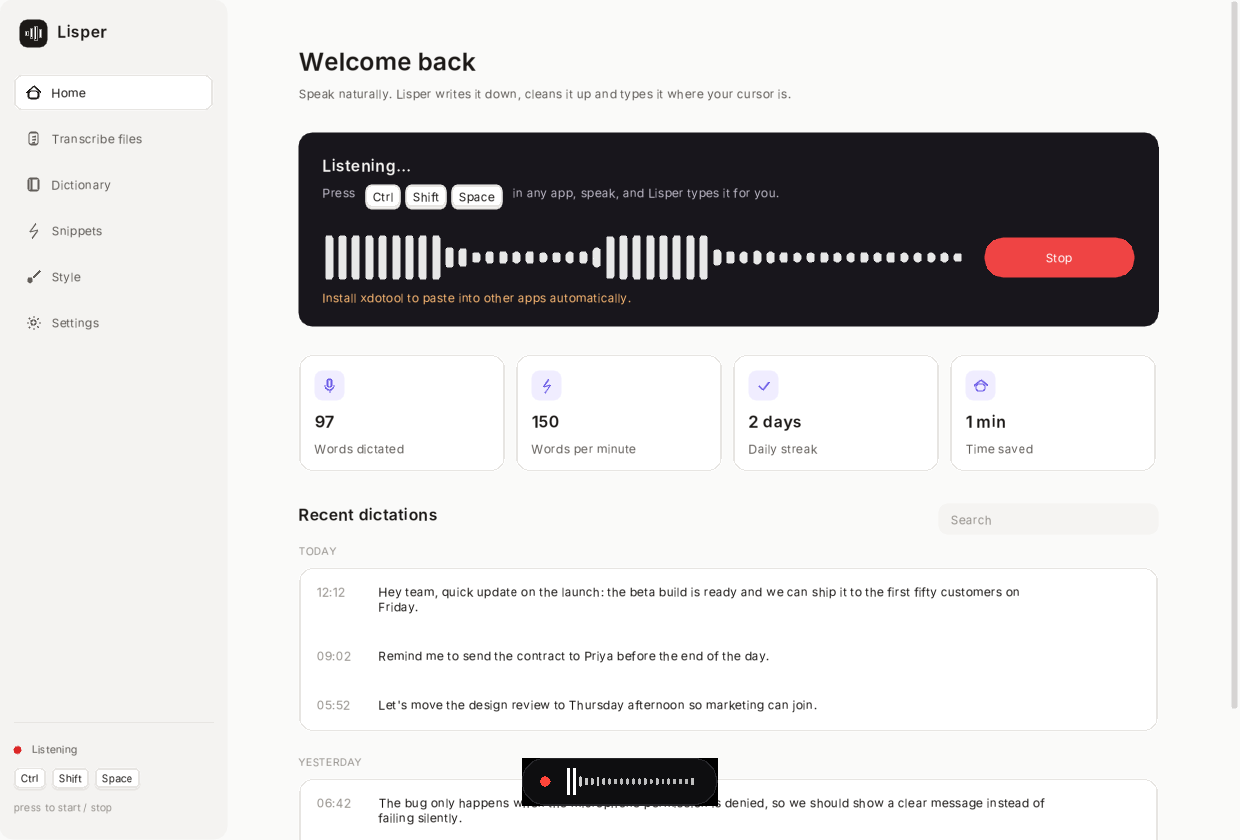
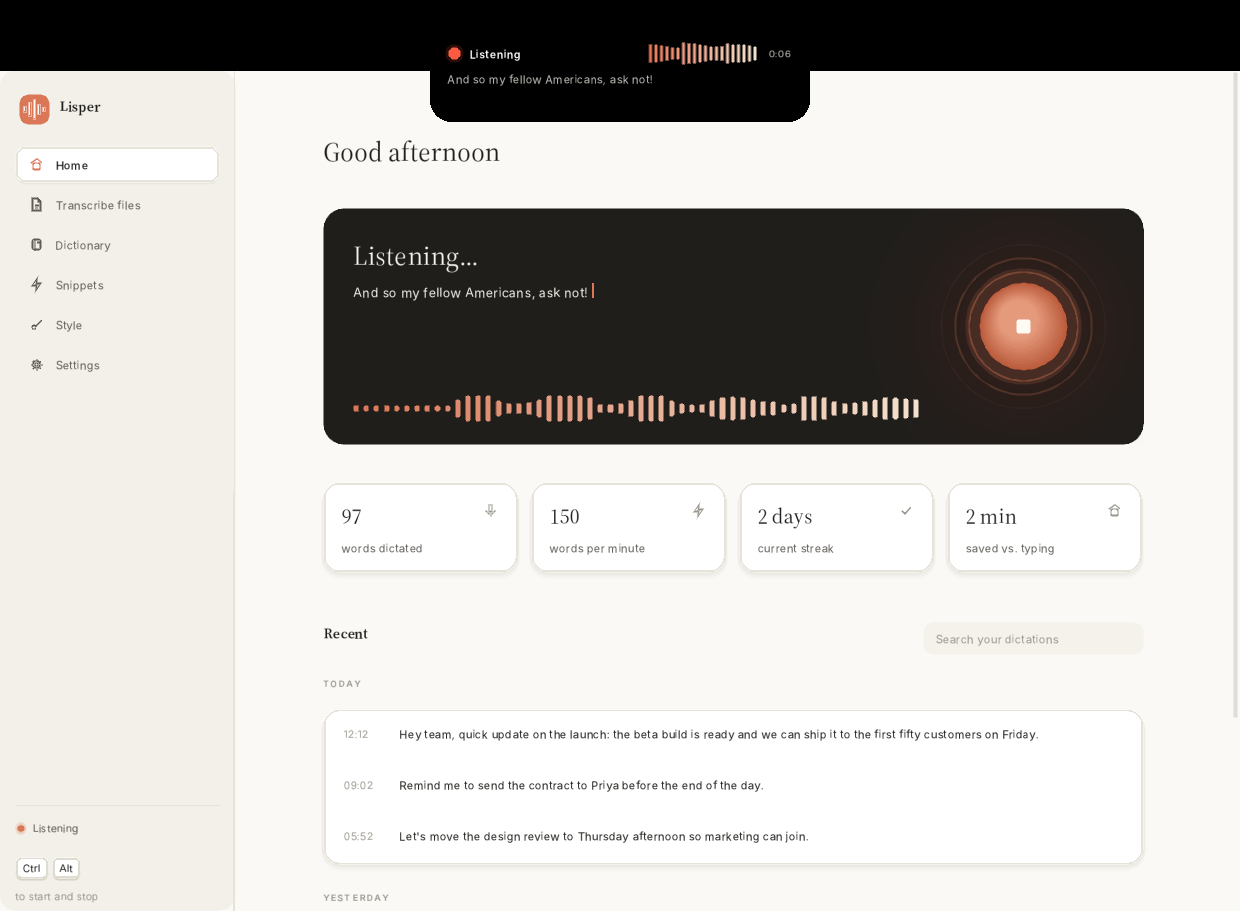
docs: island, live preview, chord shortcut; screenshots; 0.4.0
- README: notch island, live words, tap-⌘⌥ default, shortcut and island
  behaviour, new screenshots (light, dark, island states).
- CHANGELOG for 0.4.0; architecture notes for the island canvas, chord
  watcher and live preview; bundled font licenses in third-party notices.
- Bump version to 0.4.0.

diff --git a/README.md b/README.md
@@ -17,10 +17,16 @@ Nothing leaves your computer.
 
 ## What it does
 
-**Dictate anywhere.** Press <kbd>Ctrl</kbd>+<kbd>Shift</kbd>+<kbd>Space</kbd> (configurable, toggle
-or hold-to-talk) in any text field. A small floating bar shows your voice while you speak.
-When you stop, Lisper transcribes locally with [whisper.cpp](https://github.com/ggerganov/whisper.cpp),
-cleans the text up and pastes it where your cursor is.
+**Dictate anywhere.** On a Mac, tap <kbd>⌘</kbd> and <kbd>⌥</kbd> together in any text field
+(on Windows and Linux: <kbd>Ctrl</kbd>+<kbd>Shift</kbd>+<kbd>Space</kbd>; any shortcut or modifier
+chord works, as a toggle or hold-to-talk). A black island grows out of the MacBook notch, shows
+your voice as a live waveform and **writes your words as you speak**. Tap again and Lisper
+finishes the transcript locally with [whisper.cpp](https://github.com/ggerganov/whisper.cpp),
+cleans it up and types it where your cursor is. When it's idle, the island hides back in the notch.
+
+<div align="center">
+<img src="docs/images/island.png" alt="The island: listening with live words, writing, done" width="820">
+</div>
 
 - **Cleanup:** removes filler words ("um", "uh"), understands "new line" / "new paragraph",
   formal or casual style.
@@ -40,8 +46,8 @@ server, so Claude Desktop, Claude Code, Cursor, VS Code and other MCP clients ca
 or take dictation through Lisper, still fully on-device. See [docs/MCP.md](docs/MCP.md).
 
 <div align="center">
-<img src="docs/images/dictating.png" alt="Dictating with the floating bar" width="400">
-<img src="docs/images/settings_dark.png" alt="Settings in dark mode" width="400">
+<img src="docs/images/dictating.png" alt="Dictating: live words on Home and in the island" width="410">
+<img src="docs/images/dark.png" alt="Dark theme" width="410">
 </div>
 
 ## Install
@@ -69,7 +75,7 @@ lisper --model-profile quality --download-model
 
 | | Global shortcut | Paste into apps | Notes |
 |---|---|---|---|
-| **macOS** | Built in | Built in | Grant **Microphone** and **Accessibility** access when prompted. |
+| **macOS** | Built in (default: tap ⌘⌥) | Built in | Grant **Microphone** and **Accessibility** access when prompted. The island sits in the notch on MacBooks, or hangs from the menu bar on other displays. |
 | **Windows** | Built in | Built in | Apps running as administrator can't receive paste from a normal app. |
 | **Linux (X11)** | Built in | Install `xdotool` | |
 | **Linux (Wayland)** | Bind a system shortcut to `lisper_gui --toggle` | Install `wtype` | Compositors don't allow apps to grab global keys. |
@@ -86,6 +92,15 @@ lisper_gui recording.m4a   # open a file on the Transcribe page
 Closing the window minimizes Lisper so the shortcut keeps working (configurable).
 Use **Settings → Quit Lisper** to exit.
 
+**Shortcuts.** Tap the shortcut to start and tap again to insert, or switch to hold-to-talk.
+Modifier-only chords such as ⌘⌥ only fire on a clean tap, so ⌘⌥Esc, ⌘⌥-drag or AltGr typing never
+start a dictation. Record any shortcut in **Settings → Shortcut**.
+
+**The island** shows a live waveform from your microphone, a timer, and your words while you
+talk (turn off *Live preview* to save CPU on slow machines). Click it to stop. If Lisper can't paste
+into the app (for example a missing `xdotool` on Linux), the island says *Copied* and the text is
+on your clipboard.
+
 | Page | What's there |
 |---|---|
 | Home | Dictation card, stats, searchable history (copy or delete entries) |
@@ -93,7 +108,7 @@ Use **Settings → Quit Lisper** to exit.
 | Dictionary | Replacements and vocabulary |
 | Snippets | Spoken cues that expand to text |
 | Style | Formal/casual, filler removal, voice commands |
-| Settings | Shortcut, microphone, insertion mode, floating bar, sounds, model, language, theme, privacy, MCP setup |
+| Settings | Shortcut, microphone, insertion, live preview, island position, sounds, model, language, theme, privacy, MCP setup |
 
 ## Command line
 
@@ -155,8 +170,9 @@ src/
   mcp_server.*      MCP server; mcp_main.cpp is the lisper-mcp entry point
   main.cpp          CLI
   gui_app.cpp       Desktop app shell
-  gui/              Pages, theme, dictation controller, floating bar,
-                    global shortcut, paste, single-instance control
+  gui/              Pages, theme, dictation controller, notch island,
+                    global shortcuts and chords, paste, platform glue
+                    (platform_mac.mm), single-instance control
 tests/              Unit tests (ctest)
 docs/               MCP, GUI architecture, API, models
 ```

diff --git a/docs/GUI_ARCHITECTURE.md b/docs/GUI_ARCHITECTURE.md
@@ -10,8 +10,13 @@ page.
 - **SDL2:** window, renderer, audio capture and playback, clipboard, shaped
   overlay window.
 - **Dear ImGui + SDL_Renderer:** the main window UI.
-- **Plain SDL_RenderGeometry:** the floating bar (no ImGui), so it can live in
-  its own small window.
+- **A second ImGui context:** the dictation island, rendered into its own
+  small always-on-top window.
+- **Platform glue (`gui/platform*.{cpp,mm}`):** notch geometry, window level
+  above the menu bar and focus hand-back on macOS; non-activating windows on
+  Windows; no-focus hints on X11.
+- **Bundled fonts:** Inter and Source Serif 4, embedded at build time by
+  `cmake/embed_fonts.cmake`.
 - **lisper_core:** engine, text cleanup, settings, history, shared with the CLI
   and the MCP server.
 
@@ -55,8 +60,9 @@ clipboard instead of pasting into itself.
 |---|---|
 | `gui_app.cpp` | App shell: CLI flags, single instance, event loop, insertion, persistence |
 | `gui/dictation.*` | Dictation state machine, model loading, decoding |
-| `gui/overlay.*` | Floating bar window |
-| `gui/hotkey.*` | Global shortcut per platform, shortcut parsing |
+| `gui/overlay.*` | The island: spring-animated capsule, live words, waveform, states |
+| `gui/platform.*` | Notch/screen geometry, window level, focus hand-back (`platform_mac.mm` on macOS) |
+| `gui/hotkey.*` | Global shortcuts per platform, modifier-chord watcher, parsing |
 | `gui/text_insert.*` | Paste keystroke per platform, permission checks |
 | `gui/control_channel.*` | Single-instance Unix socket |
 | `gui/sounds.*` | Synthesized start/stop/error chimes |
@@ -64,3 +70,31 @@ clipboard instead of pasting into itself.
 | `gui/theme.*` | Light/dark palettes and widgets (cards, toggles, segmented controls, keycaps, icons) |
 | `gui/state.*` | UI state and file-job request building |
 | `gui/background_transcriber.*` | File transcription worker |
+
+## The island
+
+The island is drawn in a fixed-size canvas window (560×200 pt) positioned at
+the top centre of the screen under the mouse. Only the island's shape is
+visible: on macOS the window is transparent; on Windows and X11 an SDL shaped
+window whose mask follows the island every frame (SDL2 shaped windows cannot be
+resized, so the canvas never is). Width and height are springs, so the island
+grows out of the notch with a slight overshoot and collapses back into it.
+With `LISPER_SIMULATE_NOTCH=WxH` the notch layout can be previewed on any
+machine.
+
+## Shortcuts and chords
+
+Key shortcuts use the platform's hotkey API. Modifier-only chords (⌘⌥ by
+default on macOS) are detected by polling the global modifier and key state
+every 12 ms, which needs no extra permission. `ChordTracker` emits
+*Pressed* when exactly the chord is down, *Released* on a clean release, and
+*Cancelled* if any other key, modifier or mouse button is used meanwhile, so
+⌘⌥Esc or ⌘⌥-drag never start a dictation. Toggle mode acts on a quick, clean
+tap; hold mode starts on press and stops on release.
+
+## Live preview
+
+While recording, a worker re-transcribes the rolling microphone buffer (last
+24 s) about every 0.6 s once at least 1.5 s of non-silent audio exists, and
+publishes the cleaned text. Stopping cancels the in-flight preview before the
+final, full-accuracy pass.

diff --git a/CHANGELOG.md b/CHANGELOG.md
@@ -1,5 +1,32 @@
 # Changelog
 
+## [0.4.0] - 2026-11-17
+
+### Dictation
+- Notch island: the dictation indicator grows out of the MacBook notch (above the menu bar,
+  on every Space and over full-screen apps) with spring animation and hides back into it when
+  idle; it hangs from the top or floats at the bottom on other screens.
+- Real-time words: a live preview transcribes the microphone buffer while you speak and shows
+  the text in the island and on Home.
+- Tap ⌘⌥ (macOS default) to start and stop; any modifier-only chord works, and chords used as
+  part of another shortcut or a drag are ignored. Hold-to-talk works with chords too.
+- Focus goes back to the app you were dictating into before pasting, even after clicking the
+  island; a failed paste is reported as "Copied" rather than an error.
+
+### Design
+- New visual language: warm paper palette with a clay accent, Source Serif 4 headings and
+  Inter text bundled into the binary, refined outline icons, soft card shadows.
+- Motion throughout: page transitions, spring navigation indicator and toggles, sliding
+  segmented controls, eased hover/press states, count-up stats, history rows sliding in,
+  toast slide-up, and a dictation orb that breathes, ripples with the live microphone level
+  and resolves into a check.
+
+### Engineering
+- Island renders through its own ImGui context in a fixed canvas window with an animated
+  shape (works around SDL2 shaped windows not supporting resize).
+- whisper.cpp and ggml are linked statically.
+- Final dictation pass is faster while the preview runs (one core left free for the UI).
+
 ## [0.3.0] - 2026-11-17
 
 ### Dictation app (Wispr Flow style)

diff --git a/THIRD_PARTY_NOTICES.md b/THIRD_PARTY_NOTICES.md
@@ -11,6 +11,8 @@ the respective upstream package.
 | [nlohmann/json](https://github.com/nlohmann/json) 3.11.3 | JSON for settings, history and MCP | MIT, Copyright (c) 2013-2022 Niels Lohmann |
 | [tinyfiledialogs](https://sourceforge.net/projects/tinyfiledialogs/) | Native file pickers | zlib, Copyright (c) 2014-2017 Guillaume Vareille |
 | [SDL2](https://libsdl.org) | Windowing, audio capture, clipboard (linked) | zlib, Copyright (C) 1997-2024 Sam Lantinga |
+| [Inter](https://rsms.me/inter/) 4.0 | UI typeface, embedded in the app | SIL Open Font License 1.1, Copyright (c) 2016 The Inter Project Authors |
+| [Source Serif 4](https://github.com/adobe-fonts/source-serif) 4.005 | Heading typeface, embedded in the app | SIL Open Font License 1.1, Copyright 2014-2023 Adobe |
 
 ## Runtime tools (not distributed with Lisper)
 
